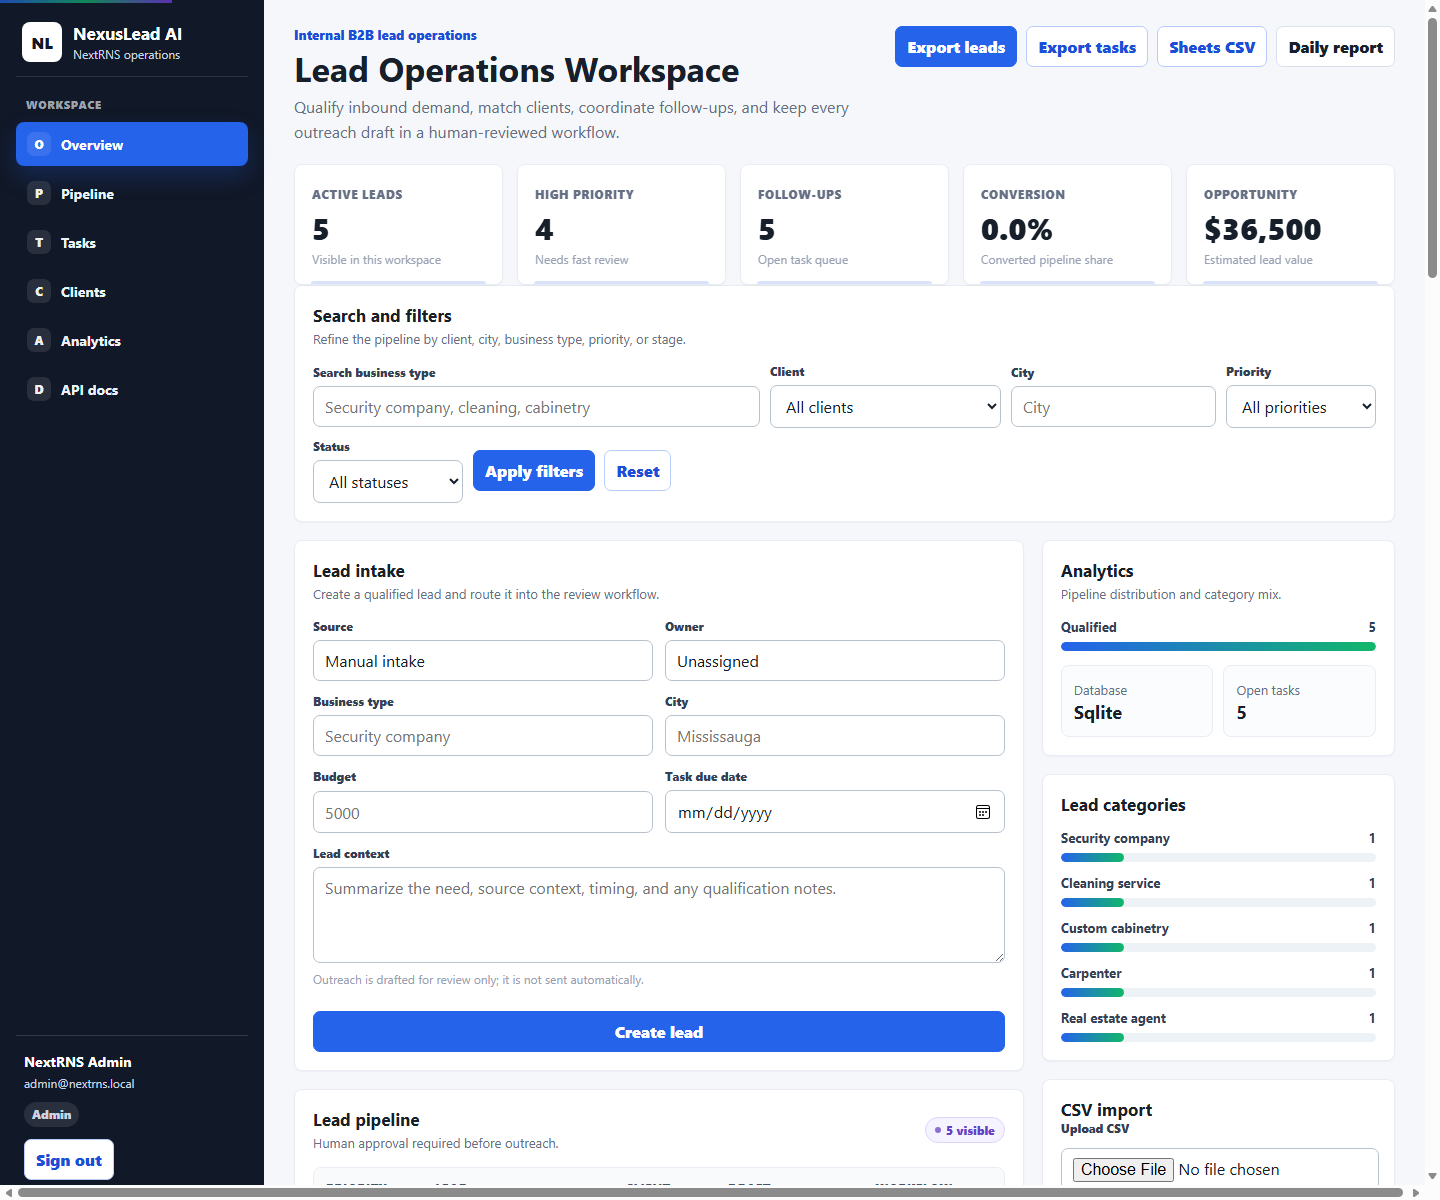
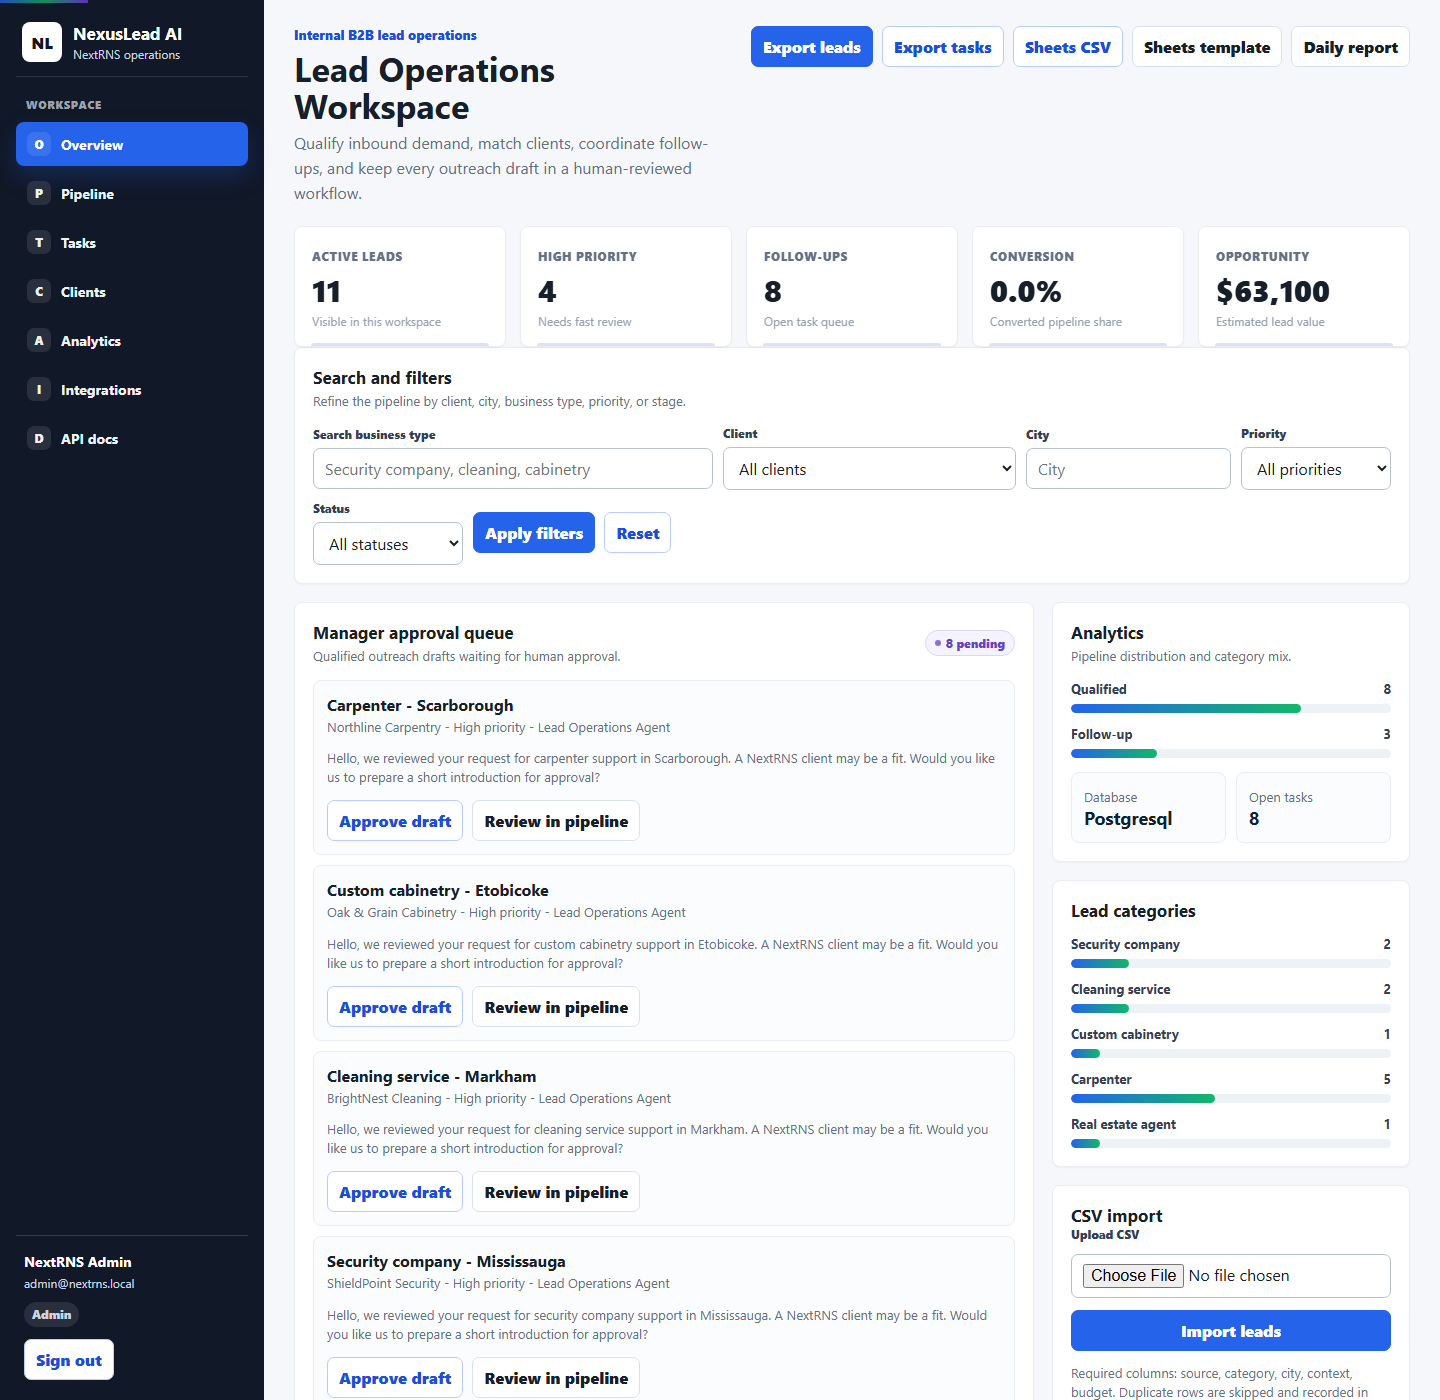
Refresh AWS product screenshots

diff --git a/README.md b/README.md
@@ -89,6 +89,10 @@ AWS architecture diagram: [diagrams/aws-architecture.mmd](diagrams/aws-architect
 
 ![NexusLead AI operations dashboard](screenshots/dashboard.png)
 
+### Integration Status
+
+![NexusLead AI integration status](screenshots/integrations.png)
+
 ## Feature Walkthrough
 
 1. Sign in with one of the review roles.
